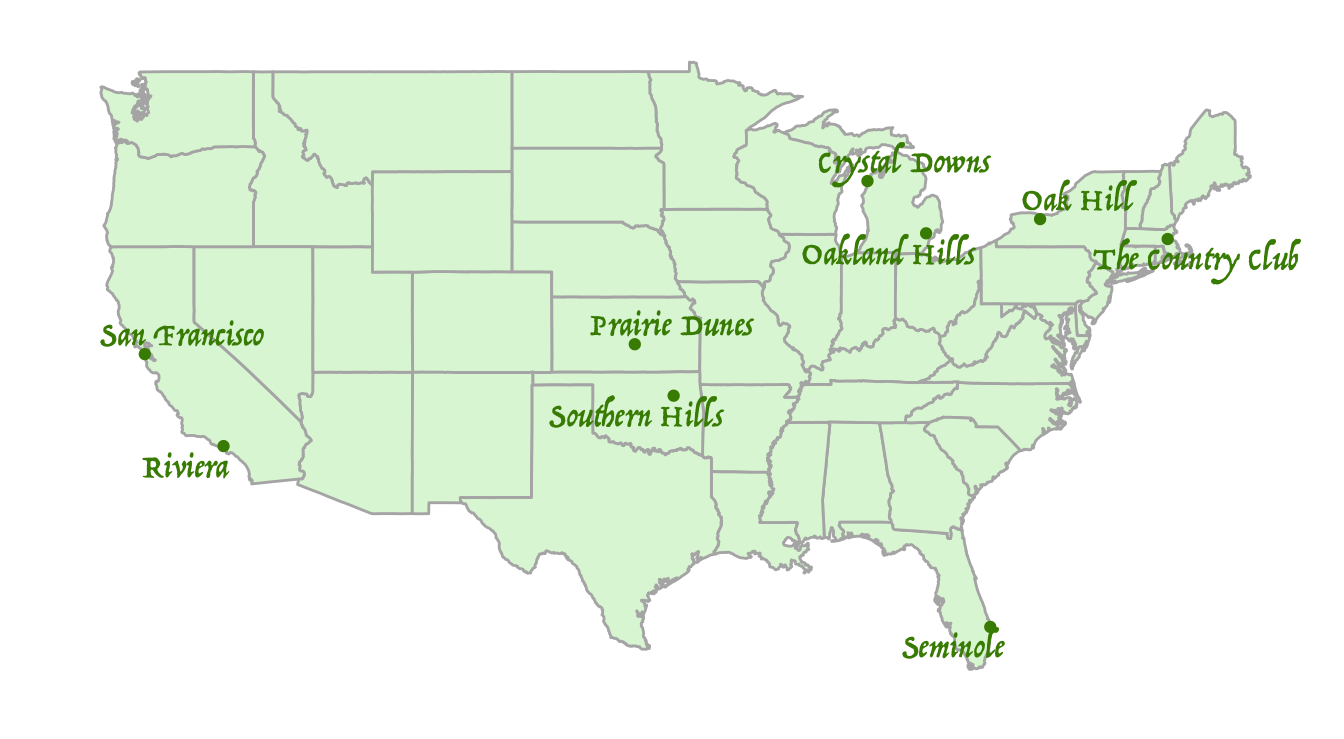
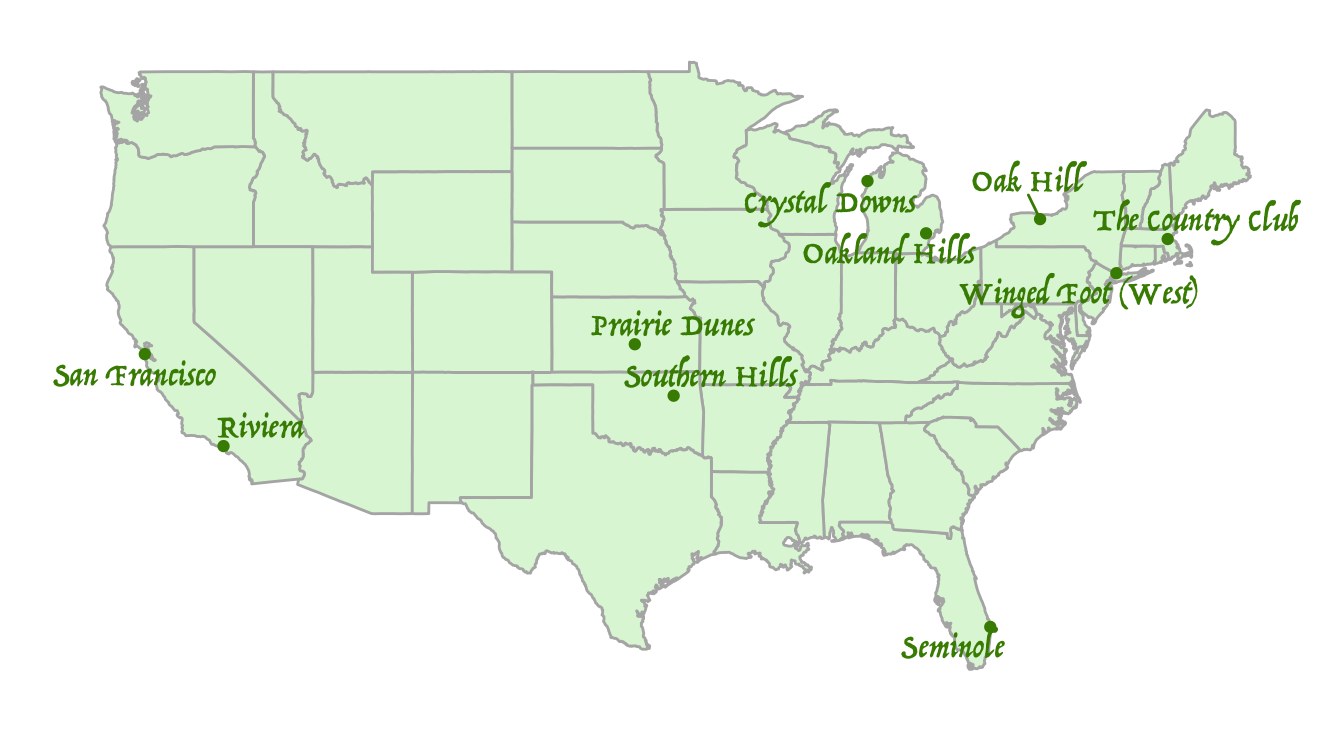
progress

diff --git a/guided_tour.html b/guided_tour.html
@@ -453,14 +453,6 @@ $(document).ready(function () {
 <td align="center">10</td>
 <td align="center">8.5</td>
 </tr>
-<tr class="even">
-<td align="center"><a href="https://top100golf.github.io/Winged-Foot--West-.html">Winged Foot (West)</a></td>
-<td align="center">Mamaroneck, NY</td>
-<td align="center">1923</td>
-<td align="center">11</td>
-<td align="center">15</td>
-<td align="center">13</td>
-</tr>
 </tbody>
 </table>
 <p>In both publications, the top 10 is rarefied air that has been occupied almost exclusively by a small number of classic courses built during golf’s <a href="https://www.amazon.com/Golden-Age-Golf-Design/dp/1886947317">“golden age”</a> of design:</p>
@@ -477,7 +469,6 @@ $(document).ready(function () {
 <p>With the exception of Pebble Beach, membership rolls at these courses are populated by captains of industry and the average golfer has no hope of ever getting on for a round. While Pine Valley and Cypress Point are not known as modern tournament courses, Pine Valley is open to the viewing public every year for the mid-amateur Crump Cup and Cypress Point has begun hosting occasional college tournaments. The other five courses are active hosts of some of the country’s most prominent professional and amateur competitions.</p>
 <p>Despite universally acclaimed designs and decades of tournament experience, all of these clubs have struggled to keep up with modern ball and club technology. Merion’s 2013 US Open setup received mixed reviews and the club may have to wait until 2030 for a return visit; Shinnecock Hills has been the site of two consecutive USGA PR catastrophes; the 2016 US Open at Oakmont was the site of Dustin Johnson’s infamous windblown ball wobble and penalty; and the 2019 US Open at Pebble Beach saw players hitting the par-5 6th hole in two with a 3 wood and a mid-iron.</p>
 <p>Even Augusta National, which has unlimited resources and only a few months of on-course play each year, is struggling to maintain shot values. In a borderline heretical move, Golf Magazine put Augusta National on notice with a column <a href="https://www.golf.com/news/columns/2019/11/21/why-augusta-national-dropped-four-places-ranking/">disparaging the club’s recent design changes</a> and this year ended the club’s seemingly permanent streak in the US top 5. What does it mean for the game of golf if technological changes make the world’s best courses obsolete for PGA Tour pros?</p>
-<p>Not long ago, the West course at Winged Foot would have easily qualified for the “blue blood” set, but the legendary venue has fallen out of the top 10 in both magazines. Comments by Golf Digest raters, some of whom call it “less interesting” than the club’s East course and situated on a property that is “downright ordinary with little topographical character,” are surprisingly negative. Will a recently completed restoration and publicity from hosting the 2020 US Open vault it back into the top 10?</p>
 <hr />
 </div>
 <div id="the-new-and-newly-revitalized-blue-bloods" class="section level3">
@@ -566,6 +557,14 @@ $(document).ready(function () {
 </thead>
 <tbody>
 <tr class="odd">
+<td align="center"><a href="https://top100golf.github.io/Winged-Foot--West-.html">Winged Foot (West)</a></td>
+<td align="center">Mamaroneck, NY</td>
+<td align="center">1923</td>
+<td align="center">11</td>
+<td align="center">15</td>
+<td align="center">13</td>
+</tr>
+<tr class="even">
 <td align="center"><a href="https://top100golf.github.io/Crystal-Downs.html">Crystal Downs</a></td>
 <td align="center">Frankfort, MI</td>
 <td align="center">1931</td>
@@ -573,7 +572,7 @@ $(document).ready(function () {
 <td align="center">16</td>
 <td align="center">14.5</td>
 </tr>
-<tr class="even">
+<tr class="odd">
 <td align="center"><a href="https://top100golf.github.io/Seminole.html">Seminole</a></td>
 <td align="center">Juno Beach, FL</td>
 <td align="center">1929</td>
@@ -581,7 +580,7 @@ $(document).ready(function () {
 <td align="center">20</td>
 <td align="center">16</td>
 </tr>
-<tr class="odd">
+<tr class="even">
 <td align="center"><a href="https://top100golf.github.io/Riviera.html">Riviera</a></td>
 <td align="center">Pacific Palisades, CA</td>
 <td align="center">1926</td>
@@ -589,7 +588,7 @@ $(document).ready(function () {
 <td align="center">17</td>
 <td align="center">20</td>
 </tr>
-<tr class="even">
+<tr class="odd">
 <td align="center"><a href="https://top100golf.github.io/The-Country-Club.html">The Country Club</a></td>
 <td align="center">Chestnut Hill, MA</td>
 <td align="center">1895</td>
@@ -597,7 +596,7 @@ $(document).ready(function () {
 <td align="center">22</td>
 <td align="center">20</td>
 </tr>
-<tr class="odd">
+<tr class="even">
 <td align="center"><a href="https://top100golf.github.io/Prairie-Dunes.html">Prairie Dunes</a></td>
 <td align="center">Hutchinson, KS</td>
 <td align="center">1937</td>
@@ -605,7 +604,7 @@ $(document).ready(function () {
 <td align="center">18</td>
 <td align="center">22.5</td>
 </tr>
-<tr class="even">
+<tr class="odd">
 <td align="center"><a href="https://top100golf.github.io/Oakland-Hills.html">Oakland Hills</a></td>
 <td align="center">Bloomfield Hills, MI</td>
 <td align="center">1918</td>
@@ -613,7 +612,7 @@ $(document).ready(function () {
 <td align="center">35</td>
 <td align="center">27.5</td>
 </tr>
-<tr class="odd">
+<tr class="even">
 <td align="center"><a href="https://top100golf.github.io/San-Francisco.html">San Francisco</a></td>
 <td align="center">San Francisco, CA</td>
 <td align="center">1924</td>
@@ -621,7 +620,7 @@ $(document).ready(function () {
 <td align="center">21</td>
 <td align="center">28</td>
 </tr>
-<tr class="even">
+<tr class="odd">
 <td align="center"><a href="https://top100golf.github.io/Oak-Hill.html">Oak Hill</a></td>
 <td align="center">Rochester, NY</td>
 <td align="center">1925</td>
@@ -629,7 +628,7 @@ $(document).ready(function () {
 <td align="center">40</td>
 <td align="center">31</td>
 </tr>
-<tr class="odd">
+<tr class="even">
 <td align="center"><a href="https://top100golf.github.io/Southern-Hills.html">Southern Hills</a></td>
 <td align="center">Tulsa, OK</td>
 <td align="center">1936</td>
@@ -640,6 +639,7 @@ $(document).ready(function () {
 </tbody>
 </table>
 <p>Most of the courses in this group have been mainstays in in 11-30 range in both rankings. Like the blue blood category, this group is split between major championship venues and clubs that have shunned the inconvenience and attention that come with hosting tournaments.</p>
+<p>Not long ago the West course at Winged Foot was viewed similarly to places like Oakmont and Merion, but the legendary venue has fallen out of the top 10 in both publications. Comments by Golf Digest raters, some of whom call it “less interesting” than the club’s East course and situated on a property that is “downright ordinary with little topographical character,” are surprisingly negative. Will a recently completed restoration and publicity from hosting the 2020 US Open vault it back into the top 10?</p>
 <hr />
 </div>
 <div id="trouble-in-paradise-part-1-upper-crust-division" class="section level3">
